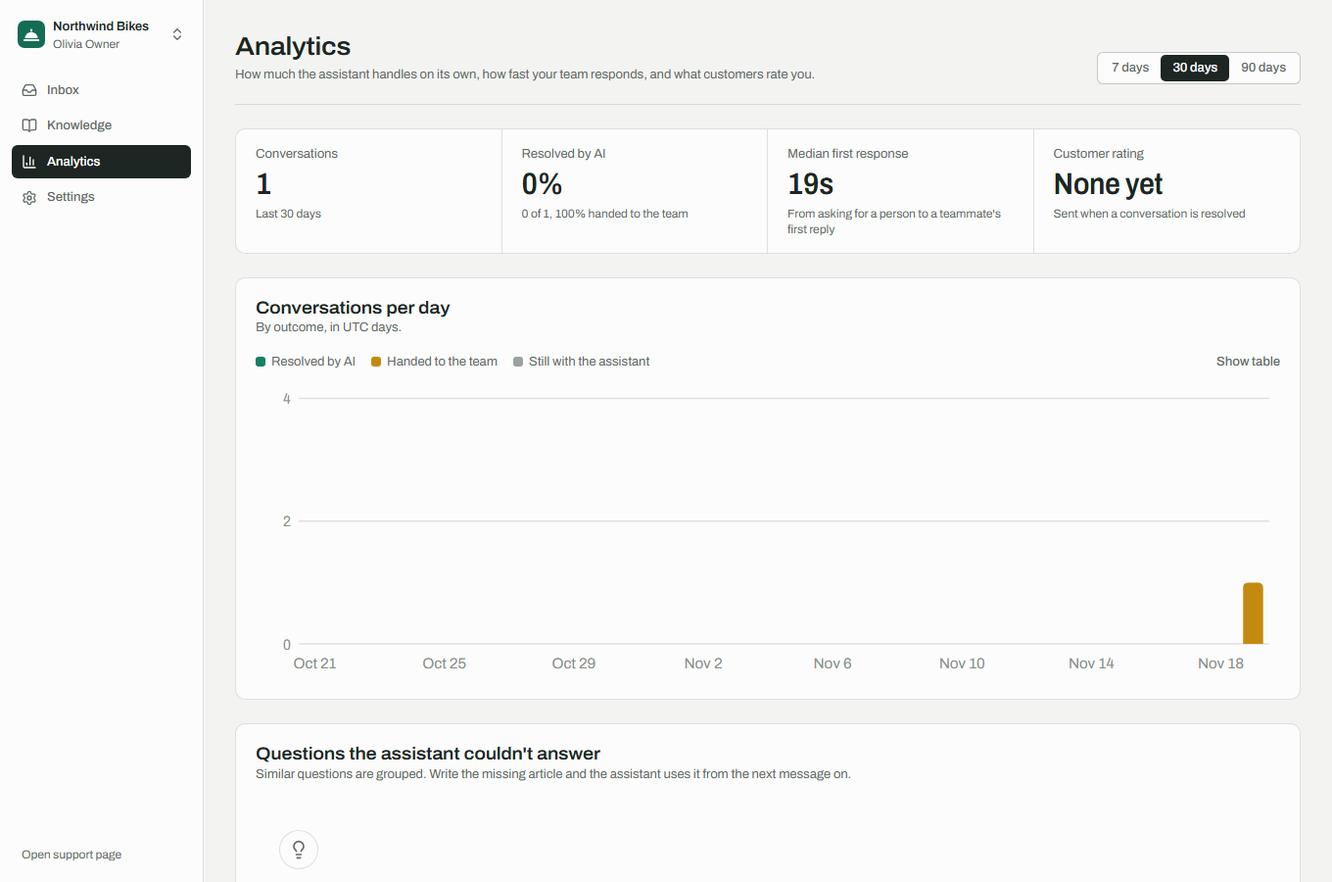
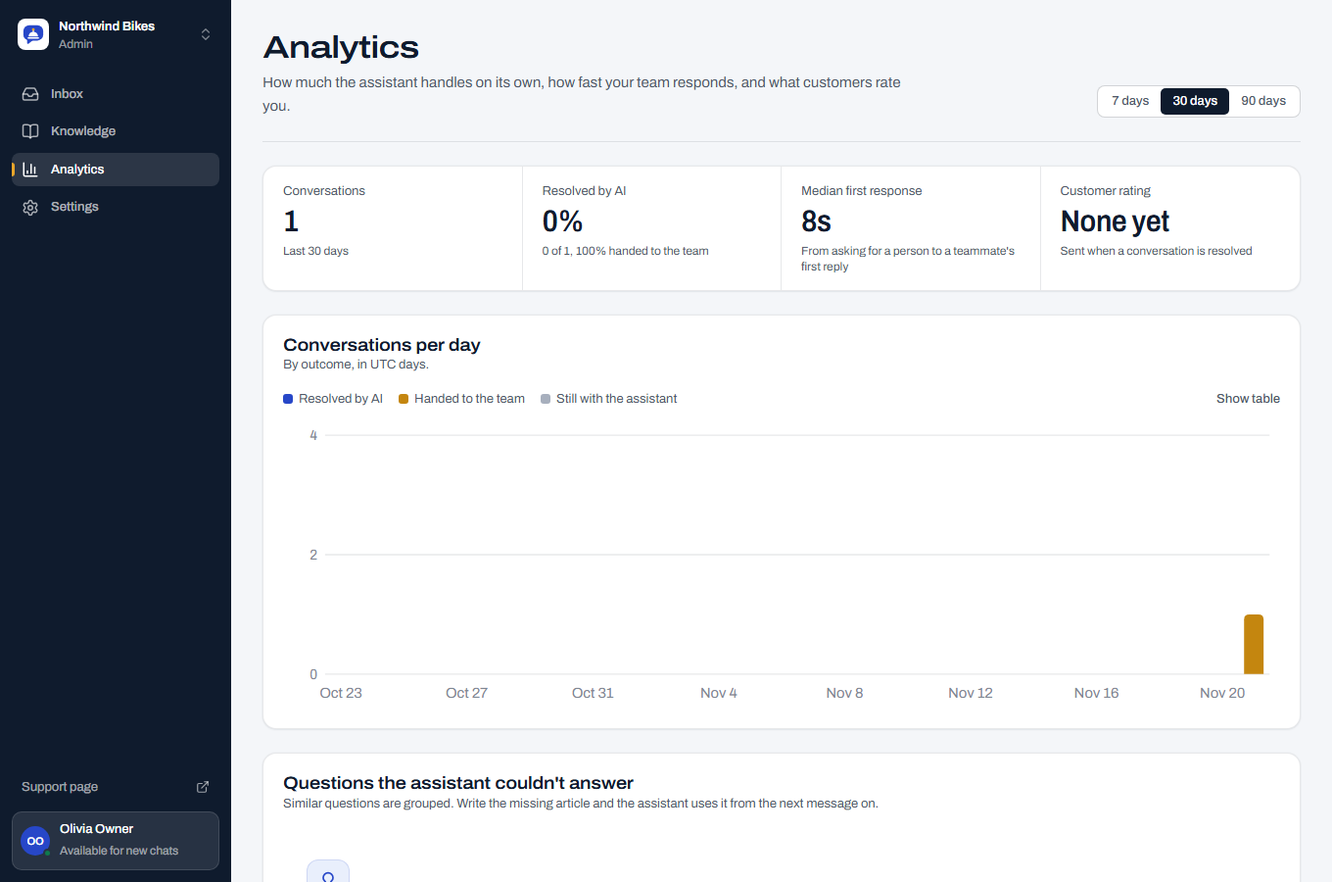
Restyle console, auth, onboarding and support pages; add 404/error/loading pages; rewrite README
- Navy console sidebar with availability switch, queue board, amber internal notes
- Auth pages with a product preview panel; connected onboarding progress track
- Hosted support page and articles in the business's brand color
- Branded 404, route and global error boundaries (Next 16 retry), console skeleton
- Fix analytics chart hydration mismatch (locale-dependent dates)
- Permissions-Policy header; chart colors on the new palette
- README: what the app does, how Nexconn is integrated, smoke test, refreshed screenshots

diff --git a/README.md b/README.md
@@ -1,80 +1,128 @@
-# HelpDesk AI
+<p align="center">
+  <img src="public/logo.svg" alt="HelpDesk AI" height="40" />
+</p>
 
-Customer support a small business can set up in five minutes. An AI assistant answers customers
-first, grounded only in the business's own help articles and citing the one it used. When a
-customer asks for a person (or the assistant can't answer), the same live conversation moves to
-the team's inbox, an agent joins, and the customer rates the chat when it's resolved.
+<h3 align="center">Answers in seconds. A person when it matters.</h3>
 
-**Live:** https://helpdesk-ai-five.vercel.app
+<p align="center">
+  Customer support a small business can set up in five minutes. An AI assistant answers first, grounded only in the
+  business's own help articles, and hands the same live conversation to a human agent the moment a customer asks.
+  <br />
+  Realtime messaging by <a href="https://www.nexconn.ai">Nexconn</a>. Answers by Gemini.
+</p>
 
-![Agent inbox](docs/inbox.png)
+<p align="center"><b>Live:</b> <a href="https://helpdesk-ai-five.vercel.app">helpdesk-ai-five.vercel.app</a></p>
+
+![Landing page with the live conversation demo](docs/landing.png)
+
+## What it is
+
+Most small businesses answer the same twenty questions all day, and lose customers on the one question that needed a
+person. HelpDesk AI puts a chat on their site (one `<script>` tag) or on a hosted support page. The assistant answers
+from the articles the business wrote, cites the article it used, and says so when it doesn't know. When the customer
+asks for a person, or the assistant can't answer, the **same conversation** moves to the team's inbox: an agent joins,
+the customer sees who joined, typing and "Seen", and rates the chat when it's resolved. Questions the assistant
+couldn't answer come back to the owner as article drafts written from what the agent actually said.
 
 ## What it does
 
 **For the business owner**
-- Sign up and create a workspace: name, support page address, brand color (curated, contrast-checked swatches), logo (Vercel Blob), greeting.
-- Knowledge: write FAQ articles, paste text, or upload `.txt`, `.md` and `.pdf` files (parsed on the server, chunked, embedded with Gemini into pgvector). Articles can be public (listed on the support page) or internal.
-- Assistant behavior: on/off, name, tone (friendly, professional, concise), what to do without an answer (offer a person or hand off right away), extra instructions, round-robin auto-assign.
-- Install: one `<script>` tag that injects an iframe launcher on any website (cross-origin, mobile full-screen), plus a hosted support page `/s/<slug>` with the chat and public articles.
-- Team: invite links (single use, 7-day expiry, hashed), admin and agent roles, live online status.
-- Analytics: conversations per day by outcome, AI-resolved vs handed off, median first response time, average rating, and the top questions the assistant couldn't answer, each one click away from a drafted article built from what the agent actually told the customer.
+- Sign up and create a workspace in three steps: name and support page address, brand color (contrast-checked swatches), logo, greeting; then knowledge; then install.
+- Knowledge: write FAQs, paste text, or upload `.txt`, `.md` and `.pdf` files (parsed on the server, chunked, embedded with Gemini into pgvector). Articles are public (listed on the support page) or internal.
+- Assistant behavior: on/off, name, tone, what to do without an answer (offer a person or hand off right away), extra instructions, round-robin auto-assign.
+- Install: one `<script>` tag that adds a launcher and chat panel to any website (cross-origin iframe, full screen on phones), plus a hosted support page `/s/<slug>` with the chat and public articles.
+- Team: invite links (single use, 7-day expiry, stored hashed), admin and agent roles, live online status.
+- Analytics: conversations per day by outcome, AI-resolved vs handed off, median first response time, average rating, and the questions the assistant couldn't answer, grouped by meaning, each one click from a drafted article.
 
-**For the customer**
-- A name (email optional) and they're chatting. The answer streams in within seconds with source links.
-- "Talk to a person" is always there; asking in words works too.
+**For customers**
+- A name (email optional) and they're chatting. The answer streams in within seconds, with the source article one tap away.
+- "Talk to a person" is always on screen; asking in words works too.
 - They see when a person joins, when they're typing, and when their message was read.
-- Image and file attachments. A rating card when the conversation is resolved.
-- Coming back later reopens the same conversation with its history.
+- Image and file attachments, a rating card when the conversation is resolved, and their history when they come back.
 
 **For agents**
-- Queues: Unassigned, Mine, All open, Resolved, with live counts, unread badges and a timer for customers waiting on a first reply.
-- Claim, or get conversations by round-robin among teammates who are online and available.
-- Reply with text, images and files; saved replies; AI reply suggestions to insert and edit; internal notes the customer never sees; transfer; resolve and reopen.
-- Customer context: name, email, the page and title they came from, past conversations.
+- Queues: Unassigned, Mine, All open, Resolved, with live counts, unread badges, and a waiting timer that turns brass after two minutes.
+- Claim, or receive conversations by round-robin among teammates who are online and available.
+- Reply with text, images and files; saved replies; AI-drafted replies to edit; internal notes (amber, never sent to the customer); transfer; resolve and reopen.
+- Customer context: name, email, the page they came from, past conversations.
 
-| Widget on an external site | AI answer with source | Analytics |
+| Agent inbox | AI answer with its source | Analytics |
 | --- | --- | --- |
-| ![Widget with a human agent](docs/widget-human.png) | ![AI answer](docs/widget-ai-answer.png) | ![Analytics](docs/analytics.png) |
+| ![Agent inbox](docs/inbox.png) | ![AI answer in the widget](docs/widget-ai-answer.png) | ![Analytics](docs/analytics.png) |
 
 | Install | Knowledge | Support page on a phone |
 | --- | --- | --- |
 | ![Install](docs/install.png) | ![Knowledge](docs/knowledge.png) | ![Mobile support page](docs/support-page-mobile.png) |
 
-## How this uses Nexconn
+## How it works
 
-Every support conversation is a Nexconn group channel. The customer and the agents use the Chat
-SDK for Web in the browser; the server uses the Platform Chat API (signed requests, Singapore data
-center) for everything a bot or the system does.
+```
+ Business website                    HelpDesk AI (Next.js on Vercel, sin1)              Nexconn (Singapore)
+ ┌──────────────┐  <script>    ┌───────────────────────────────────────────┐
+ │ widget.js    │─────────────▶│ /embed/<slug>  chat UI in an iframe       │──Chat SDK──▶ WebSocket
+ │ launcher +   │◀─postMessage─│ /s/<slug>      hosted support page        │
+ │ iframe resize│              ├───────────────────────────────────────────┤
+ └──────────────┘              │ /app/*         agent console              │──Chat SDK──▶ WebSocket
+                               ├───────────────────────────────────────────┤
+                               │ /api/*         auth, knowledge, inbox,    │──REST──────▶ Platform Chat API
+                               │                widget, AI pipeline        │  tokens, groups, bot and
+                               └──────┬───────────────┬────────────────────┘  system messages, streaming,
+                                      │               │                       metadata, presence
+                               Neon Postgres     Gemini (@google/genai)
+                               + pgvector        answers + embeddings
+                               Vercel Blob (logos, uploaded documents)
+```
+
+1. The customer sends a message with the Chat SDK into the conversation's Nexconn group, then tells our API it was sent.
+2. The server checks the customer owns the conversation, mirrors the message in Postgres, and in `after()` runs the AI pipeline: triage (question, small talk, or "I want a person") → vector search over the workspace's articles → Gemini answer that must cite a passage or reply `NO_ANSWER`.
+3. The answer is streamed into one Nexconn streaming message sent by the workspace's bot user; citations ride along in the message metadata.
+4. On handoff, the conversation enters the human queue. A claim or round-robin assignment adds the agent to the same Nexconn group, so the agent and customer keep talking in the conversation the assistant started.
+
+## How Nexconn is integrated
+
+Every support conversation is a Nexconn **group channel** owned by the workspace's AI bot (a real Nexconn user). The
+customer and agents use the **Chat SDK for Web** in the browser; the server uses the **Platform Chat API** (signed
+requests, Singapore data center) for everything the bot or the system does.
 
 | Nexconn feature | How HelpDesk AI uses it | Where |
 | --- | --- | --- |
-| Access tokens / user registration (`/v4/auth/access-token/issue`) | Every teammate, every customer and each workspace's AI bot is a real Nexconn user (`hdk…` ids) | `src/lib/nexconn/server.ts`, `src/lib/workspaces/service.ts`, `src/lib/widget/service.ts` |
-| Chat SDK init, `AreaCode.SG`, connect, connection status | One connection per page; reconnect banner, kicked-session (31010) handling, token refresh on 31004, manual reconnect on 33007, history resync after reconnect | `src/lib/nexconn/client.ts`, `src/components/app/staff-chat.tsx` |
-| Group channels (server create) | One group per conversation (owner: bot, member: customer); one staff group per workspace | `src/lib/widget/service.ts`, `src/lib/workspaces/service.ts` |
-| Group join / leave (server) | Claim adds the agent; transfer removes the old agent and adds the new one; invites and removals update the staff group | `src/lib/conversations/service.ts`, `src/lib/workspaces/service.ts` |
+| Access tokens / user registration (`/v4/auth/access-token/issue`) | Every teammate, every customer and each workspace's AI bot is a Nexconn user (`hdk…` ids). Cached teammate tokens are tagged with the App Key that issued them | `src/lib/nexconn/server.ts`, `src/lib/nexconn/token-cache.ts`, `src/lib/workspaces/service.ts` |
+| Chat SDK init (`AreaCode.SG`), connect, connection status | One connection per page; reconnect banner; kicked session (31010); fresh token on 31004/31005; manual reconnect on 33007; backoff retry after other disconnects; history resync after reconnect | `src/lib/nexconn/client.ts`, `src/components/app/staff-chat.tsx` |
+| Group channels (create, join, leave) | One group per conversation (bot owner + customer + assigned agent) and one staff group per workspace. Claim adds the agent; transfer swaps agents; invites and removals update the staff group | `src/lib/widget/service.ts`, `src/lib/conversations/service.ts`, `src/lib/workspaces/service.ts` |
+| Group self-healing | Before any server send or join, the group is re-created under its existing id if it's missing (for example after moving to a new Nexconn app), because sending to a missing group succeeds silently | `src/lib/nexconn/provision.ts` |
 | Group profile update / dismiss | Staff group renamed with the workspace; test cleanup dismisses groups | `src/app/api/workspace/route.ts`, `scripts/cleanup-test-data.mjs` |
-| Server-sent group messages | AI bot text replies, system lines, CSAT cards, internal notes broadcast, inbox events | `src/lib/ai/reply.ts`, `src/lib/conversations/service.ts`, `src/app/api/inbox/[id]/notes/route.ts` |
-| Streaming messages (`RC:StreamMsg`, `/v4/group-channel/message/stream/send`) | Gemini output is streamed into one Nexconn streaming message; browsers fetch it with `getMessagesByIds` and receive chunks through `requestStreamMessage` + `onStreamMessageRequestDelta`; `RC_Ext_StreamMsgSummary` marks completion | `src/lib/ai/reply.ts`, `src/lib/nexconn/client.ts` |
-| Custom message types | `HD:Event` (handoff, joined, transferred, resolved), `HD:Csat` (rating card), `HD:Note` (staff-only notes), and status types `HD:Typing`, `HD:Inbox`, `HD:Stream` | `src/lib/nexconn/types.ts`, `src/lib/nexconn/client.ts` |
-| Message metadata (expansion) | Citations and final text on AI answers, "That helped" feedback, CSAT rating and comment written back onto the card; clients update live via `onMessageMetadataUpdated` | `src/lib/ai/reply.ts`, `src/lib/conversations/service.ts` |
-| Read receipts | Messages are sent with `needReceipt`; the other side calls `sendReadReceiptResponse`; "Seen" comes from `onMessageReceiptResponse` | `src/lib/nexconn/client.ts`, `src/components/inbox/conversation-view.tsx`, `src/components/customer/use-customer-chat.ts` |
-| Typing indicators | Group channels have no SDK typing call, so typing is a throttled custom status message (`HD:Typing`), also sent by the bot while it looks things up | `src/lib/nexconn/client.ts`, `src/lib/ai/reply.ts` |
+| Server-sent group messages | Bot replies, system lines, rating cards, internal-note broadcasts, live inbox events | `src/lib/ai/reply.ts`, `src/lib/conversations/service.ts`, `src/app/api/inbox/[id]/notes/route.ts` |
+| Streaming messages (`RC:StreamMsg`, `/v4/group-channel/message/stream/send`) | Gemini output streams into one Nexconn message. The Web SDK doesn't push server streams live, so the server announces each stream (`HD:Stream`) and browsers attach with `getMessagesByIds` + `requestStreamMessage` + `onStreamMessageRequestDelta` | `src/lib/ai/reply.ts`, `src/lib/nexconn/client.ts` |
+| Custom message types | `HD:Event` (handoff, joined, transferred, resolved), `HD:Csat` (rating card), `HD:Note` (staff-only notes); status types `HD:Typing`, `HD:Inbox`, `HD:Stream` | `src/lib/nexconn/types.ts`, `src/lib/nexconn/client.ts` |
+| Message metadata | Citations and final text on AI answers, "That helped", the rating and comment written back onto the rating card; clients update live through `onMessageMetadataUpdated` | `src/lib/ai/reply.ts`, `src/lib/conversations/service.ts` |
+| Read receipts | Messages sent with `needReceipt`; the other side calls `sendReadReceiptResponse`; "Seen" comes from `onMessageReceiptResponse` | `src/lib/nexconn/client.ts`, `src/components/inbox/conversation-view.tsx`, `src/components/customer/use-customer-chat.ts` |
+| Typing indicators | The SDK's typing call only works in direct channels, so typing is a throttled custom status message (`HD:Typing`), also sent by the bot while it looks things up | `src/lib/nexconn/client.ts`, `src/lib/ai/reply.ts` |
 | Unread counts | `BaseChannel.getUnreadChannels` for inbox badges, `clearUnreadCount` when a conversation is opened | `src/components/inbox/inbox.tsx` |
-| History pagination | `BaseChannel.createMessagesQuery` loads the customer's conversation and older pages on scroll | `src/components/customer/use-customer-chat.ts` |
-| Image and file messages | `Helper.createSendImageMessageParams` / `createSendFileMessageParams` + `sendMediaMessage` with upload progress, for customers and agents | `src/lib/nexconn/client.ts` |
-| Presence | Server `/v4/user/connection-status/get` decides round-robin assignment and "team online"; the Team page subscribes to online status in the SDK | `src/lib/conversations/service.ts`, `src/components/settings/team-manager.tsx` |
-| Sender info in message content | Agent replies carry `senderUserInfo.name` so customers see who answered | `src/lib/nexconn/client.ts` |
+| History pagination | `BaseChannel.createMessagesQuery` loads the customer's conversation and older pages on scroll; if Nexconn has no history, the chat shows the transcript mirrored in Postgres | `src/components/customer/use-customer-chat.ts` |
+| Image and file messages | `Helper.createSendImageMessageParams` / `createSendFileMessageParams` + `sendMediaMessage` with upload progress | `src/lib/nexconn/client.ts` |
+| Presence | Server `/v4/user/connection-status/get` drives round-robin and "team online"; the Team page subscribes to online status in the SDK (and unsubscribes on leave) | `src/lib/conversations/service.ts`, `src/components/settings/team-manager.tsx` |
 
-No console webhooks are used. The customer's browser calls our API after each successful SDK send;
-the server verifies the customer owns the conversation, mirrors the message in Postgres, and runs
-the AI pipeline in `after()`.
+No console webhooks are needed: the customer's browser reports each successful SDK send to our API, which verifies,
+mirrors and answers.
+
+**Checking a Nexconn app.** `node scripts/nexconn-smoke.mjs` registers two fixed test users, creates a temporary
+group, and exercises tokens, group create/join/leave, text with metadata, metadata updates, streaming, transient
+status messages and presence, then dismisses the group. Every call should print `ok`; anything else names the
+feature to enable in the Nexconn console.
+
+## Design
+
+The product's look is a front desk: navy ink, enamel blue for actions, brass for "someone is waiting" (the desk bell),
+and green only for online and resolved states. The mark is a service bell inside a speech bubble. Type is Archivo with
+its width axis (expanded for headings) and JetBrains Mono for code. The landing page's one orchestrated moment is a live
+replay of a conversation moving from the assistant to a person, with the agent's inbox updating beside it; reduced
+motion shows the finished conversation instead. Icons are generated from one source by `node scripts/generate-icons.mjs`.
 
 ## Tech stack
 
-Next.js 16 (App Router, TypeScript strict), Tailwind CSS 4, Drizzle ORM on Neon Postgres with
-pgvector (768-dim HNSW), Vercel Blob, Gemini through `@google/genai` (models from env, retries with
-backoff and a fallback model), Nexconn Chat SDK for Web 26.2 and Platform Chat API, zod, jose,
-bcryptjs, lucide icons, Archivo + JetBrains Mono, Vitest and Playwright.
+Next.js 16 (App Router, TypeScript strict), Tailwind CSS 4, Drizzle ORM on Neon Postgres with pgvector (768-dim HNSW),
+Vercel Blob, Gemini through `@google/genai` (models from env, retries with backoff and a fallback model), Nexconn Chat
+SDK for Web 26.2 and Platform Chat API, zod, jose, bcryptjs, lucide icons, Vitest and Playwright.
 
 ## Run it locally
 
@@ -82,34 +130,60 @@ bcryptjs, lucide icons, Archivo + JetBrains Mono, Vitest and Playwright.
 npm install
 vercel env pull .env.local --yes     # or create .env.local with the variables below
 npm run db:migrate                   # applies drizzle/ migrations (enables pgvector)
+node scripts/nexconn-smoke.mjs       # optional: confirm the Nexconn app has every feature on
 npm run dev                          # http://localhost:3101
 ```
 
 Environment variables (names only): `DATABASE_URL`, `DATABASE_URL_UNPOOLED`, `BLOB_READ_WRITE_TOKEN`,
-`NEXCONN_APP_KEY`, `NEXCONN_APP_SECRET`, `NEXCONN_API_BASE`, `NEXCONN_ID_PREFIX`, `SESSION_SECRET`,
-`GEMINI_API_KEY`, `GEMINI_MODEL`, `GEMINI_FALLBACK_MODEL`, `GEMINI_EMBED_MODEL`, optional `NEXT_PUBLIC_APP_URL`.
+`NEXCONN_APP_KEY`, `NEXCONN_APP_SECRET`, `NEXCONN_API_BASE` (`https://api.sg-light-api.com`), `NEXCONN_ID_PREFIX`,
+`SESSION_SECRET`, `GEMINI_API_KEY`, `GEMINI_MODEL`, `GEMINI_FALLBACK_MODEL`, `GEMINI_EMBED_MODEL`, optional
+`NEXT_PUBLIC_APP_URL`.
 
 Try the widget on another origin: `npm run examples`, then open
 `http://localhost:3199/external-site.html?origin=http://localhost:3101&workspace=<your-slug>`.
-The file itself, `examples/external-site.html`, is a plain page with the one-line snippet.
+`examples/external-site.html` is a plain page with the one-line snippet.
 
 ## Tests
 
 ```bash
-npm run test:unit                                   # Vitest: chunking, prompts, palette, slugs, credentials, SLA
+npm run typecheck
+npm run lint
+npm run test:unit                                   # Vitest: chunking, prompts, palette, slugs, credentials, SLA, token cache
 npm run test:e2e                                    # Playwright against http://localhost:3101
 E2E_BASE_URL=https://helpdesk-ai-five.vercel.app npm run test:e2e   # against production
-node scripts/cleanup-test-data.mjs                  # remove @example.com test accounts and their groups
+SCREENSHOTS=1 npx playwright test tests/e2e/screenshots.spec.ts      # refresh docs/*.png
+node scripts/cleanup-test-data.mjs [--dry-run]      # remove @example.com test accounts and their groups
 ```
 
-Latest results: Vitest 19/19; Playwright 3/3 against local dev and 3/3 against production
-(`https://helpdesk-ai-five.vercel.app`, widget embedded on a page served from another origin).
-
-The main end-to-end test uses three browser contexts (owner, invited agent, customer on a different
-origin) against the real stack: sign-up, onboarding, knowledge indexing, grounded streamed AI answer
-with a source link, handoff, claim, typing, real-time replies, read receipts, internal note,
-transfer, resolve, CSAT, and the returning customer's history.
+The main end-to-end test runs three browser contexts (owner, invited agent, customer on another origin) against the
+real stack: sign-up, onboarding, knowledge indexing, grounded streamed AI answer with a source link, handoff, claim,
+typing, live replies, read receipts, internal note, transfer, resolve, rating, and the returning customer's history.
+A second spec covers file upload, the hosted support page on a phone, and turning a knowledge gap into an article.
 
 ## Deploy
 
-`vercel deploy --prod` (functions run in `sin1`, next to Neon and the Nexconn Singapore data center).
+`vercel deploy --prod`. Functions run in `sin1`, next to Neon and the Nexconn Singapore data center. Changing the
+Nexconn App Key needs no data migration: users are re-registered and groups re-created under their existing ids on
+first use.
+
+## Project structure
+
+```
+src/app/                 pages and route handlers (landing, auth, onboarding, console, support page, widget, API)
+src/components/          ui primitives, marketing (hero demo, scroll motion), inbox, customer chat, knowledge, settings
+src/lib/nexconn/         server.ts (Platform API), client.ts (Web SDK), provision.ts (self-healing groups), types
+src/lib/ai/              Gemini client, prompts, retrieval, reply pipeline, reply suggestions
+src/lib/conversations/   handoff, claim, transfer, resolve, rating
+drizzle/                 SQL migrations
+public/widget.js         the embeddable loader
+scripts/                 nexconn-smoke, generate-icons, cleanup-test-data, serve-examples
+tests/                   Vitest unit tests and Playwright journeys
+```
+
+## Known limitations
+
+- Agents who join late can't read Nexconn history from before they joined (a console default), so the agent transcript comes from the Postgres mirror. The mirror depends on clients reporting their sends (retried three times) and on the server recording bot and system messages.
+- No outbound email: customer emails are collected and shown to agents.
+- Gemini free tier: 429/503 trigger backoff, then the fallback model, then a polite handoff.
+- Customer identity lives in the widget iframe's storage, which browsers partition per site, so it persists per site and browser, not across devices.
+- Every customer is a registered Nexconn user. A development Nexconn app caps registered users (100), so production traffic needs a production Nexconn plan.

diff --git a/AGENTS.md b/AGENTS.md
@@ -113,7 +113,9 @@ src/components/knowledge/  add knowledge (FAQ / paste / upload), list, editor, g
 src/components/analytics/  daily outcome chart, knowledge gaps
 src/components/settings/   workspace, assistant, team, saved replies
 src/lib/db/                Drizzle schema + Neon client (retrying fetch)
-src/lib/nexconn/           server.ts (Platform API), client.ts (browser SDK wrapper), types.ts
+src/lib/nexconn/           server.ts (Platform API), client.ts (browser SDK wrapper), provision.ts (self-healing
+                           groups), token-cache.ts (App Key-tagged token cache), types.ts
+src/components/marketing/  landing hero demo and scroll motion helpers
 src/lib/ai/                gemini.ts, prompts.ts, retrieval.ts, reply.ts (AI pipeline), assist.ts
 src/lib/knowledge/         chunk.ts, parse.ts (txt/md/pdf), indexer.ts
 src/lib/conversations/     service.ts (handoff, claim, transfer, resolve, CSAT), queries.ts
@@ -121,7 +123,8 @@ src/lib/auth/              password, session JWT cookie, guards, visitor credent
 drizzle/                   SQL migrations (committed)
 public/widget.js           embeddable loader (iframe + postMessage resize)
 examples/                  plain external HTML page with the one-line snippet
-scripts/                   serve-examples.mjs (other origin for tests), cleanup-test-data.mjs
+scripts/                   serve-examples.mjs (other origin for tests), cleanup-test-data.mjs,
+                           nexconn-smoke.mjs (checks every Nexconn feature), generate-icons.mjs
 tests/e2e/                 Playwright (multi-context journeys, screenshots)
 tests/unit/                Vitest
 ```
@@ -136,7 +139,10 @@ chunks (pgvector 768), knowledge_gaps (pgvector 768), saved_replies, rate_limits
 
 The README table "How this uses Nexconn" lists each feature with file paths. Summary:
 
-* Tokens / registration: `lib/nexconn/server.ts#issueToken` (bot per workspace, teammates, customers).
+* Tokens / registration: `lib/nexconn/server.ts#issueToken` (bot per workspace, teammates, customers). Cached
+  teammate tokens are stored as `nx1|<appKey>|<token>` so a new App Key never reuses an old token.
+* Self-healing groups: `lib/nexconn/provision.ts` re-creates staff and conversation groups under their existing ids
+  (create, or on 25409 join members) once per server instance and App Key. Changing the App Key needs no migration.
 * Web SDK: init with `AreaCode.SG`, custom type registration, connection/message handlers, token
   refresh (31004), kick (31010), manual reconnect (33007), resync after reconnect: `lib/nexconn/client.ts`.
 * Group channels: create (conversation + staff group), join/leave (claim, transfer, team changes),
@@ -200,4 +206,10 @@ vercel deploy --prod   # remote build; vercel.json pins framework nextjs + regio
 * TypeScript strict; zod validation on every route; authorization on every route.
 * Nexconn IDs: `${NEXCONN_ID_PREFIX}${nanoid(alnum)}` only (letters and digits).
 * App Secret and Gemini key are server-only (`server-only` import in those modules).
-* Palette: 4 colors (porcelain, slate ink, ledger green, marker amber). No gradients.
+* Palette ("front desk"): porcelain canvas, navy ink, enamel blue (actions), brass (someone is waiting), fern
+  (online/resolved only). Tokens live in `src/app/globals.css`; no decorative gradients. The brand mark (bell in a
+  speech bubble) is `components/brand-mark.tsx`; regenerate icon files with `node scripts/generate-icons.mjs`.
+* Motion: one orchestrated moment per page (landing hero demo), scroll reveals via `[data-reveal]`, and motion that
+  answers an action. Always respect `prefers-reduced-motion`.
+* Nexconn: never send into or join a group without `ensureConversationChannel` / `ensureStaffChannel` first
+  (`lib/nexconn/provision.ts`); sending to a missing group succeeds silently.
